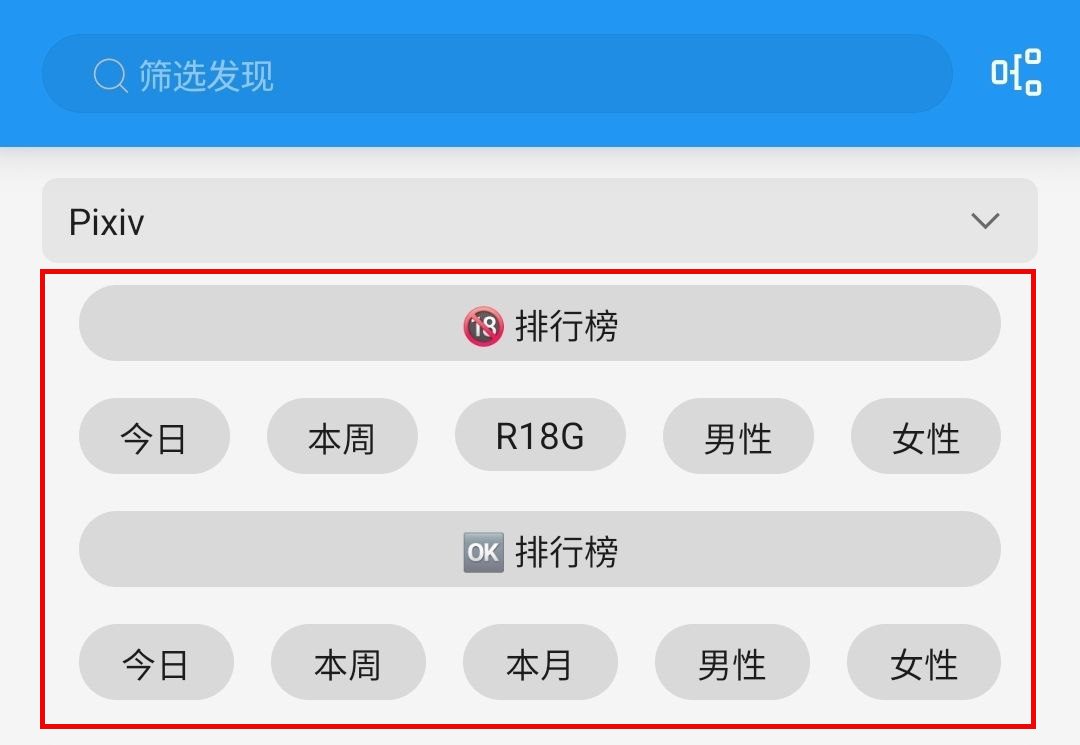
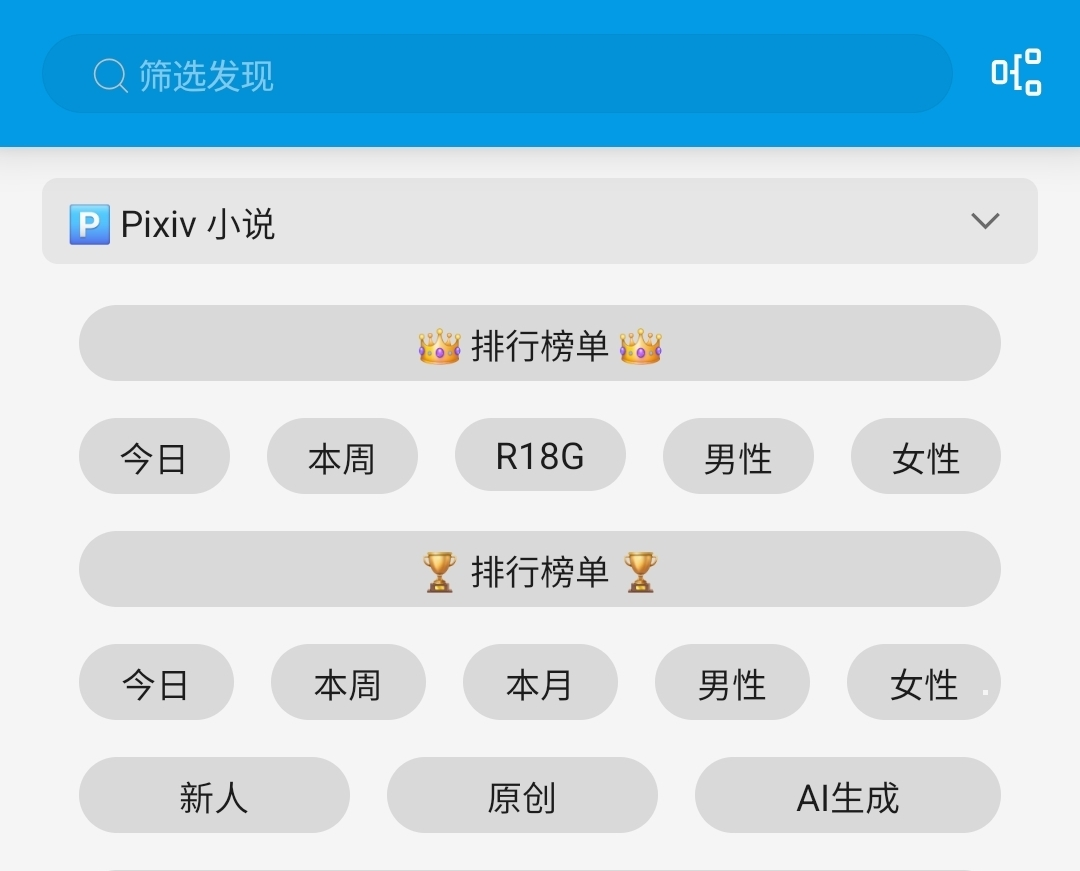
Pixiv 文档：更新发现

diff --git a/doc/Pixiv.md b/doc/Pixiv.md
@@ -212,25 +212,52 @@ Pixiv 及正版付费书源，需要登录账号才能阅读相关小说
 
 
 ### 2.发现更多小说
-<details><summary> ⭐ 常规功能 </summary>
+<details><summary> ⭐ 常规发现 </summary>
 
+#### 2.0 常规发现
 ![img](./pic/DiscoverPixiv.jpg)
+</details>
+
+
+<details><summary> 🆕 最新企划约稿 </summary>
+
+#### 2.1 最新 企划 约稿
+![img](./pic/DiscoverPixivNew.png)
+- ✅ R18 小说 (🆕 最新 企划 约稿 💰，默认显示)
+- ☑ 一般小说 (✅ 最新 企划 约稿 ✅，默认隐藏)
+  > 可在书源设置中修改`SHOW_GENERAL_RANK`，更改后需要在发现页面刷新分类（发现，长按"Pixiv"，刷新）
 </details>
 
 
 <details><summary> 👑 小说排行 </summary>
 
+#### 2.2 小说排行
 ![img](./pic/DiscoverPixivRanking.png)
-  - ✅ R18小说排行榜(🔞 排行榜)
-  - ✅ 一般小说排行榜(🆗 排行榜)
-    >（默认隐藏，可在书源设置中修改`SHOW_GENERAL_RANK`)，更改后需要在发现页面刷新分类（发现：长按"Pixiv"，刷新
+  - ✅ R18 小说 (👑 排行榜单 👑，默认显示)
+  - ☑ 一般小说 (🏆 排行榜单 🏆，默认隐藏)
+    > 可在书源设置中修改`SHOW_GENERAL_RANK`)，更改后需要在发现页面刷新分类（发现，长按"Pixiv"，刷新）
+</details>
+
+
+<details><summary> 🔥 原创热门（默认隐藏） </summary>
+
+#### 2.3 原创热门（默认隐藏）
+![img](./pic/DiscoverPixivHot.png)
+- ☑ R18 小说 (🔥 原创热门 🔥，默认隐藏)
+  > 可在书源设置中修改`SHOW_R18_GENRE`，更改后需要在发现页面刷新分类（发现，长按"Pixiv"，刷新）
+- ☑ 一般小说 (❤🔥 原创热门 ❤🔥，默认隐藏)
+  > 可在书源设置中修改`SHOW_GENERAL_GENRE`，更改后需要在发现页面刷新分类（发现，长按"Pixiv"，刷新）
 </details>
 
 
 <details><summary> 🆙 更新书源 </summary>
 
+#### 2.4 更新书源
+![img](./pic/UpdateSource.png)
 点击按钮【🆙 更新】以更新书源/更新订阅
-![img](./pic/UpdateSource.jpg)
+- Jsdelivr CDN 更新有延迟
+- Github 更新需代理
+- Godeberg 更新免代理
 </details>
 
 
@@ -267,7 +294,8 @@ https://www.pixiv.net/users/16721009
 
 #### 4.0 更新书源
 点击按钮【🆙 更新书源】以更新书源/更新订阅
-![img](./pic/UpdateSource.jpg)
+- 
+![img](./pic/UpdateSource.png)
 </details>
 
 
@@ -295,6 +323,31 @@ https://www.pixiv.net/users/16721009
 
 - 添加系列小说到书架
 ![img](./pic/AddBookViaPixiv2.png)
+</details>
+
+
+<details><summary> ❤ 他人收藏（订阅源 源变量）</summary>
+
+#### 4.4 查看他人收藏（Pixiv 首页 订阅源）
+详见 
+1⃣ 订阅 - 长按订阅源 - 编辑 - 菜单 - 设置源变量
+
+![img](./pic/SetSourceVariable.png)
+
+2⃣ 设置源变量：输入作者ID，一行一个，可添加作者名，保存
+```
+12345 // 作者A
+67890 # 作者B
+```
+3⃣ 导入：打开订阅源 - 菜单 - 登录 - 点击 ❤ 他人收藏，同步数据
+
+![img](./pic/SetLikeAuthors.jpg)
+
+4⃣ 更新：发现 - 长按"Pixiv" - 刷新 - 查看他人收藏
+
+![img](./pic/SetSourceVariable0.png)
+
+![img](./pic/DiscoverPixivLikes.jpg)
 </details>
 
 
@@ -360,7 +413,7 @@ https://www.pixiv.net/users/16721009
 ### 6.设置源变量
 <details><summary> 🚫 屏蔽作者（书源 源变量）</summary>
 
-#### 6.1屏蔽作者(本地)
+#### 6.1 屏蔽作者(本地)
 1⃣ 编辑源变量：
 - 我的 - 书源管理 - 编辑 - 菜单 - 设置源变量
 - 发现 - 长按书源 - 编辑 - 菜单 - 设置源变量
